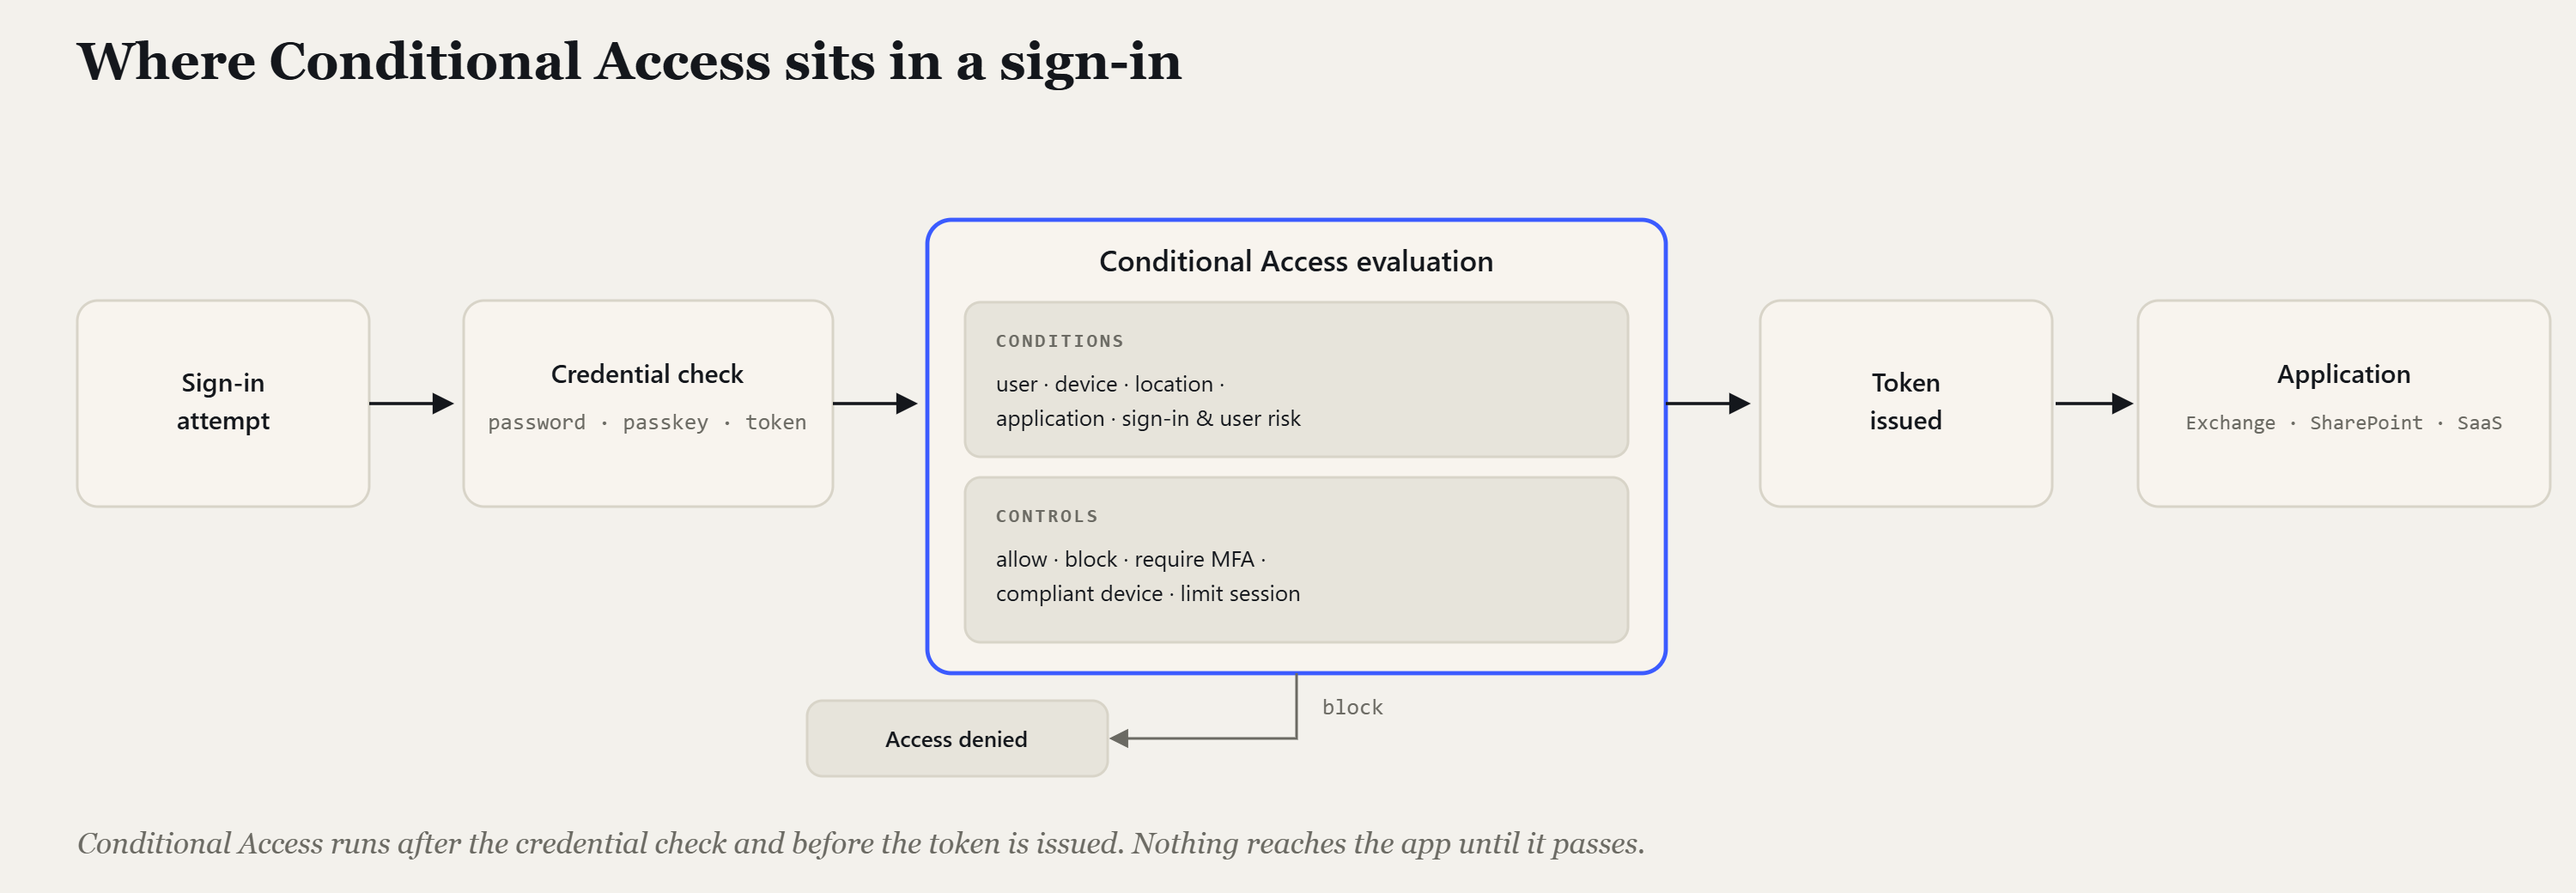
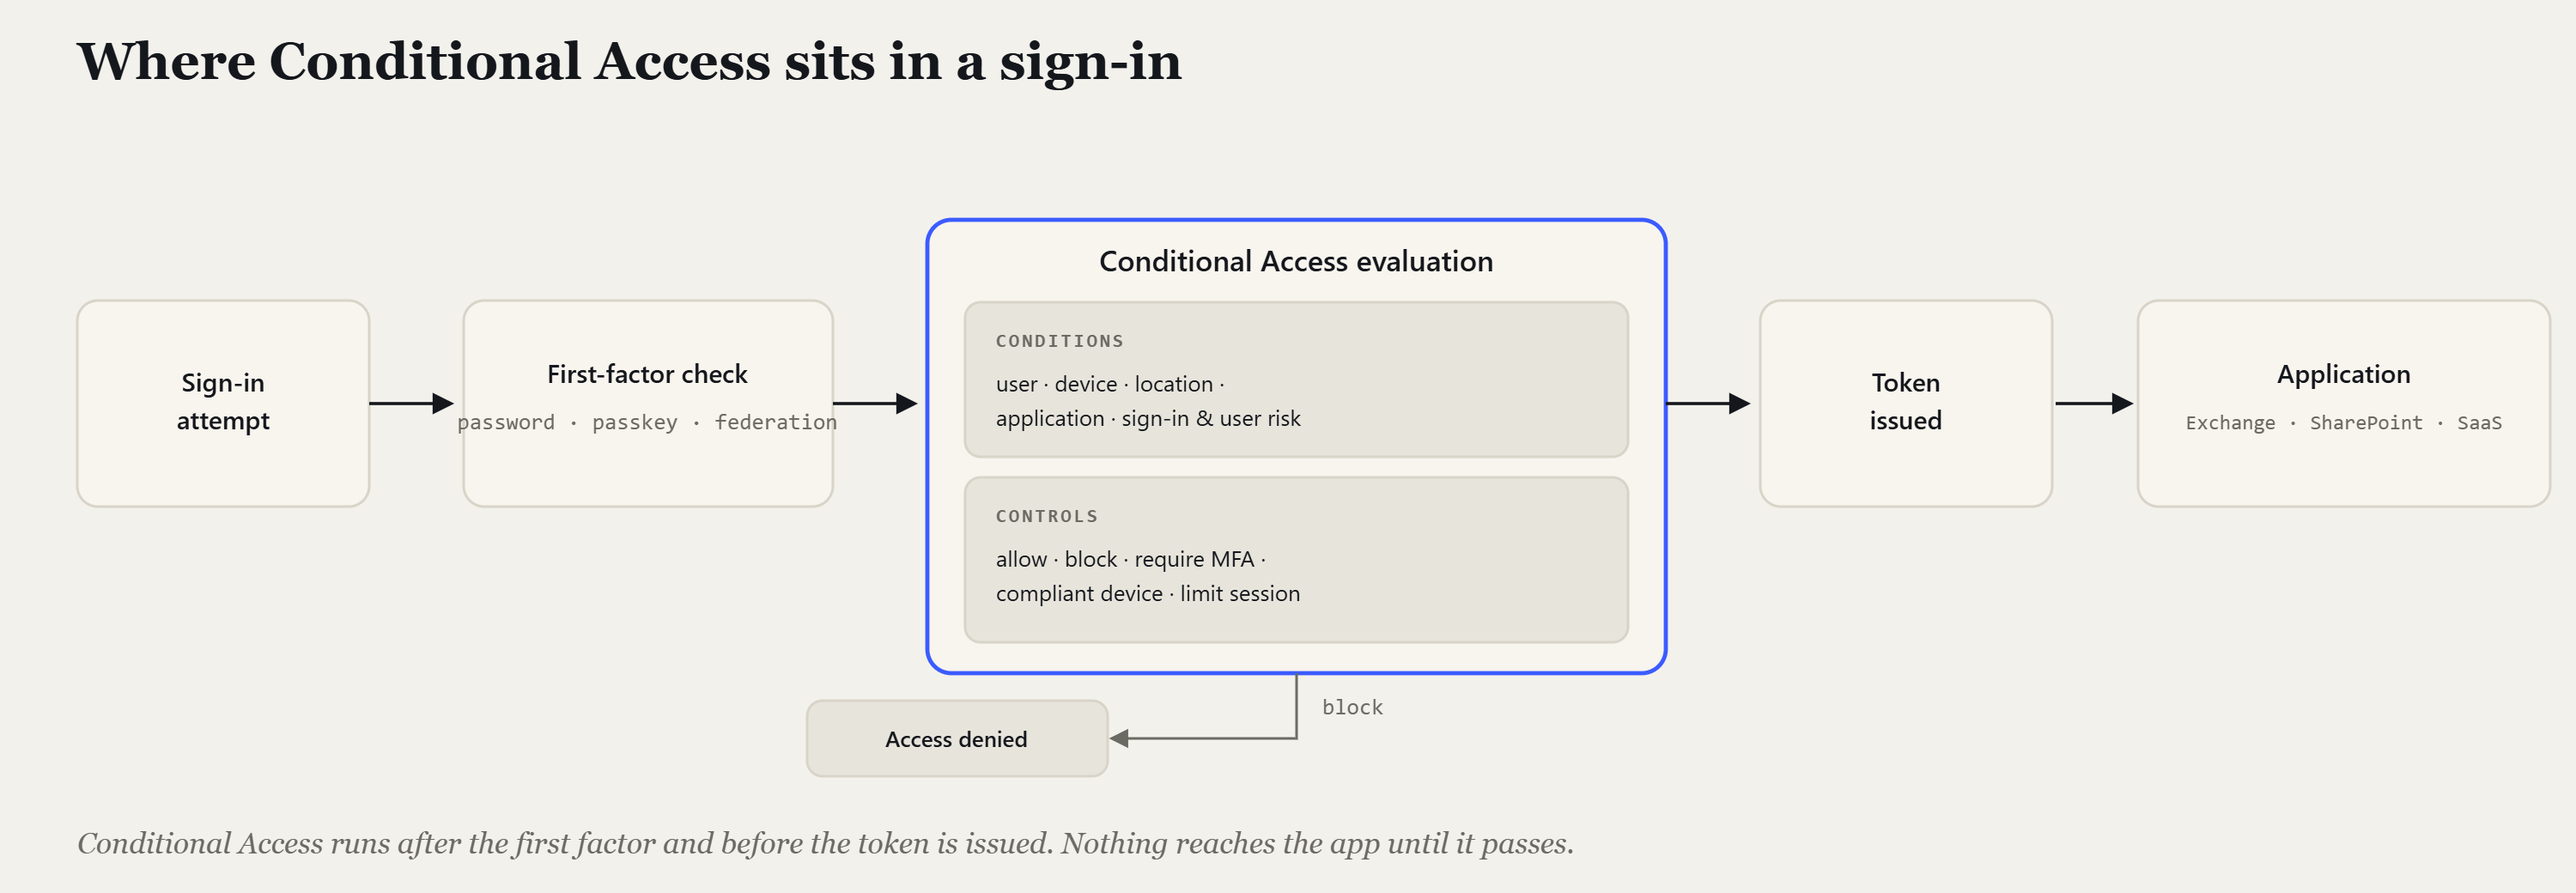
diagrams: sync fig 1 with the first-factor wording
The doc-alignment pass changed the body copy from "credential check" to
"first factor" but only fig 2 was regenerated. Fig 1 still showed a
"Credential check / password · passkey · token" box and a caption
referencing the credential check, contradicting the prose beside it.

- Box B: "Credential check" -> "First-factor check"
- Sublabel: "password · passkey · token" -> "password · passkey · federation"
- Caption: "after the credential check" -> "after the first factor"
- Regenerated ca-fig1-signin.png (3000x1040)

Changed region(s): [[0.186, 0.9231, 0.651, 0.9538], [0.186, 0.4615, 0.341, 0.4923], [0.217, 0.4, 0.31, 0.4308]]

diff --git a/blog/diagrams/_generator.html b/blog/diagrams/_generator.html
@@ -53,10 +53,10 @@
 
   <line class="flow" x1="215" y1="235" x2="262" y2="235" marker-end="url(#ah)"/>
 
-  <!-- B: credential check -->
+  <!-- B: first-factor check -->
   <rect class="card" x="270" y="175" width="215" height="120" rx="12"/>
-  <text class="lbl" x="377" y="223" text-anchor="middle">Credential check</text>
-  <text class="mono sublbl muted" x="377" y="250" text-anchor="middle">password · passkey · token</text>
+  <text class="lbl" x="377" y="223" text-anchor="middle">First-factor check</text>
+  <text class="mono sublbl muted" x="377" y="250" text-anchor="middle">password · passkey · federation</text>
 
   <line class="flow" x1="485" y1="235" x2="532" y2="235" marker-end="url(#ah)"/>
 
@@ -95,7 +95,7 @@
   <text class="lbl" x="1365" y="223" text-anchor="middle">Application</text>
   <text class="mono muted" x="1365" y="250" text-anchor="middle" style="font-size:12px">Exchange · SharePoint · SaaS</text>
 
-  <text class="display" x="45" y="497" style="font-size:17px; font-style:italic; fill:var(--muted)">Conditional Access runs after the credential check and before the token is issued. Nothing reaches the app until it passes.</text>
+  <text class="display" x="45" y="497" style="font-size:17px; font-style:italic; fill:var(--muted)">Conditional Access runs after the first factor and before the token is issued. Nothing reaches the app until it passes.</text>
 </svg>
 </div>
 
